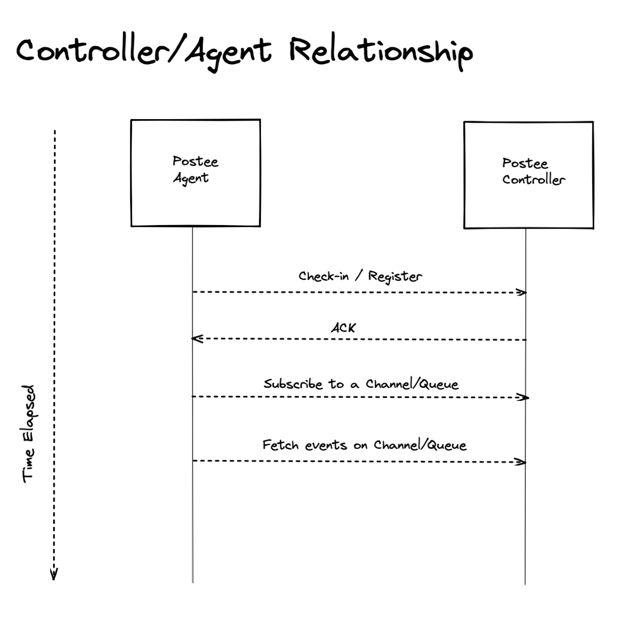
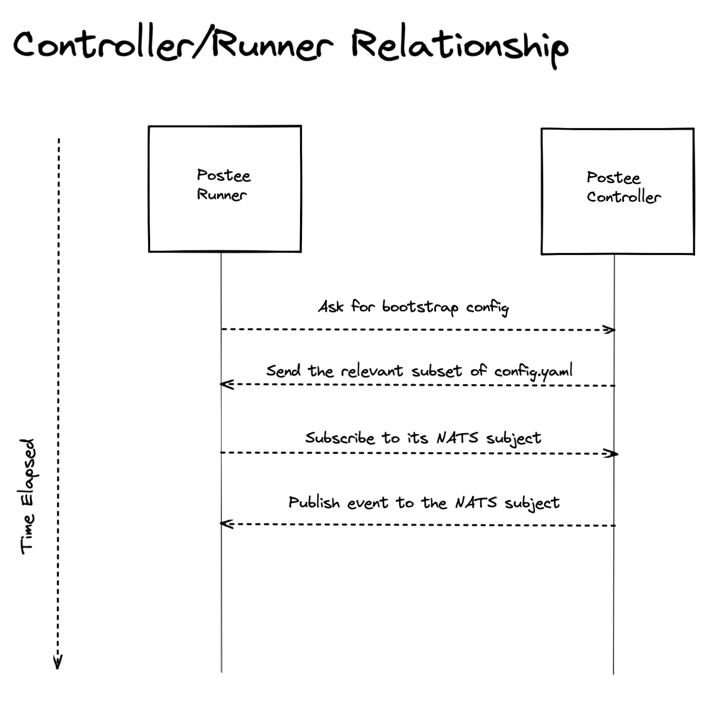
docs(cr): Update Controller/Runner scenarios.

diff --git a/docs/ARCH.md b/docs/ARCH.md
@@ -1,51 +1,124 @@
 # Postee Orchestration Model
 
-## Controller/Agent Architecture
+## Controller/Runner Architecture
 
-Postee can be configured as Controller/Agent where the two work together to enforce Actions on their workloads. The Model can be represented as follows:
+Postee can be configured as Controller/Runner where the two work together to enforce Actions on their workloads. The Model can be represented as follows:
 
 ![img_5.png](img_5.png)
 
-In the above diagram, the Postee Operator configures Postee Controller and the Postee Agents. Postee Controller/Agent model works for both On-Prem (Virtualized and non-Virtualized) and Kubernetes environments. The coloured boxes in the above diagram can be represented as follows:
+In the above diagram, the Postee Operator configures Postee Controller and the Postee Runners. Postee Controller/Runner model works for both On-Prem (Virtualized and non-Virtualized) and Kubernetes environments. The coloured boxes in the above diagram can be represented as follows:
 
 ![img_6.png](img_6.png)
 
-## Controller/Agent Relationship
+## Controller/Runner Relationship
 
-Postee Agents and their associated Postee Actions can be pre-defined in the Postee Configuration that is configured for each Postee Controller.
+Postee Runners and their associated Postee Actions can be pre-defined in the Postee Configuration that is configured for each Postee Controller.
 
-Postee Controllers are configured with each of the Postee Agents they are responsible for delegating the Postee Actions to. This configuration must be loaded by the Postee Operator.
+Postee Controllers are configured with each of the Postee Runners they are responsible for delegating the Postee Actions to. This configuration must be loaded by the Postee Operator.
 
-The exchange between the Postee Agent and Controller can be visualized as below:
+The exchange between the Postee Runner and Controller can be visualized as below:
+
 ![img_11.png](img_11.png)
 
-// TODO: Add an example config for Postee Controller that configures Postee Agents and the Postee Actions associated with them.
+### Config
+A sample Postee Controller/Runner model configuration could look as follows:
+
+Please note that a few items have been omitted from this configuration YAML example for brevity.
+
+```yaml
+ version: v1
+ type: controller
+ name: Postee-Controller-Runnner
+
+ # Routes are used to define how to handle an incoming message
+ routes:
+ - name: local-route
+   input: contains(input.image, "alpine:3.10")
+   outputs: [my-http-post-from-controller]
+   template: raw-json
+
+ - name: remote-route
+   input: contains(input.SigMetadata.ID, "TRC-2")
+   runs-on: "postee-runner-1"
+   serialize-outputs: true
+   outputs: [my-exec-from-runner, my-http-post-from-runner]
+   template: raw-json
+
+ - name: remote-route-2
+   input: contains(input.SigMetadata.ID, "TRC-3")
+   runs-on: "postee-runner-2"
+   serialize-outputs: true
+   outputs: [my-exec-from-runner]
+   template: raw-json
+
+ # Templates are used to format a message
+ templates:
+ - name: raw-json
+   rego-package: postee.rawmessage.json
+
+ # Outputs are target services that should consume the messages
+ outputs:
+ - name: my-http-post-from-controller
+   type: http
+   enable: true
+   url: "https://sample.url"
+   method: POST
+   body-content: |
+     This is an example of a inline body
+     Input Image: event.input.image
+     
+ - name: my-exec-from-runner
+   type: exec
+   enable: true
+   env: ["MY_ENV_VAR=foo_bar_baz", "MY_KEY=secret"]
+   exec-script: |
+     #!/bin/sh
+     echo $POSTEE_EVENT
+
+ - name: my-http-post-from-runner
+   type: http
+   enable: true
+   url: "https://sample.url"
+   method: POST
+   body-content: |
+     This is an another example of a inline body
+     Event ID: event.input.SigMetadata.ID
+
+```
+
+As seen above, each runner is distinctly identified by it's name. In this example we have two Postee Runners, "postee-runner-1" and "postee-runner-2". 
+
+In order for these runners to be configured, they need to be wired in with a directive of `runs-on`. This tells the controller that the route is meant to be executed by a remote runner, instead of the controller itself.
+
+When the directive of `runs-on` is not specified, Postee Controller behaves like a normal Postee and executes the Action by itself. This is useful when the running environment is not of interest and actions are ephemeral. We expect most of today's Postee Actions to follow such a pattern.
+
+In the case, when a `runs-on` directive is specified, the Controller delegates the actual run of the action to the associated Postee Runner. At the moment, each controller needs to be defined upfront within the configuration YAML and each has it's own distinct identity.
 
 
 ### Workflow
 
-In the following example, we will discuss the event flow between Producers, Postee Controller and Postee Agent.
+In the following example, we will discuss the event flow between Producers, Postee Controller and Postee Runner.
 
-![img_7.png](img_7.png)
+![img_12.png](img_12.png)
 
-In this scenario, the Postee Operator has configured Postee Controller to be responsible for 3 Postee Agents, each of which, is further responsible for executing certain Postee Actions.
+In this scenario, the Postee Operator has configured Postee Controller to be responsible for 2 Postee Runners, each of which, is further responsible for executing certain Postee Actions. In turn, the controller also has a self defined action that it will not delegate to any runner but execute itself (JIRA Action).
 
-Event Producers produce events that are sent to the Postee Controller. In the Postee Controller, they are re-routed to the Postee Agents that are responsible for handling them and executing necessary Postee Actions. 
+Event Producers produce events that are sent to the Postee Controller. In the Postee Controller, they are re-routed to the Postee Runners that are responsible for handling them and executing necessary Postee Actions. 
 
-Upon receiving the Postee Action, the Postee Agents take the Postee Actions that they have been configured for. 
+Upon receiving the Postee Action, the Postee Runners take the Postee Actions that they have been configured for. 
 
-Important distinction to note here is that the Event Producers don't have any knowledge about Postee Agents. They are only responsible for sending all their events upstream to the Postee Controller.
+Important distinction to note here is that the Event Producers don't have any knowledge about Postee Runners. They are only responsible for sending all their events upstream to the Postee Controller.
 
 
-### Postee Agents Environment
+### Postee Runners Environment
 
-#### Decoupled Agents
-In most cases for Postee Agents, the working environment is not of a concern as most of the Postee Actions they take are de-coupled from the environment they run in. 
+#### Decoupled Runners
+In most cases for Postee Runners, the working environment is not of a concern as most of the Postee Actions they take are de-coupled from the environment they run in. 
 
-For example, if Postee Agent is configured to run an HTTP action that sends a payload to an endpoint, it can be run from anywhere as long as there's a network path up to make a request.
+For example, if Postee Runner is configured to run an HTTP action that sends a payload to an endpoint, it can be run from anywhere as long as there's a network path up to make a request.
 
-#### Coupled Agents
-In certain cases, it may be required that the Postee Agent runs on the same host/node/environment that the Event was generated from. For example, if the Postee Agent is configured to run an Exec Postee Action, that removes vulnerable images as they are discovered. In this case it would only make sense to run the Postee Action in the same environment where the Event was produced (vulnerable image found).
+#### Coupled Runners
+In certain cases, it may be required that the Postee Runner runs on the same host/node/environment that the Event was generated from. For example, if the Postee Runner is configured to run an Exec Postee Action, that removes vulnerable images as they are discovered. In this case it would only make sense to run the Postee Action in the same environment where the Event was produced (vulnerable image found).
 
 
 ### Practical Scenario: Postee and Tracee
@@ -54,16 +127,26 @@ Tracee is an Open Source tool that can generate events for a service like Postee
 
 In the case of Tracee, events are produced on the host machine/node that Tracee runs on. Such a case can be visualized as follows:
 
-![img_8.png](img_8.png)
+![img_14.png](img_14.png)
 
 A malicious process running on the host causes Tracee to trigger its event detection and emit a finding event. This event is sent up to the Postee Controller that is configured to handle all events generated from Tracee(s). 
 
-This event that is sent up also includes additional metadata about the Postee Agent that is running alongside Tracee on the same node/host. This metadata is crucial for Postee Controller to identify which node/host the event has originated from in order to dispatch it with the specified Postee Action.
+This event that is sent up also includes additional metadata about the Postee Runner that is running alongside Tracee on the same node/host. This metadata is crucial for Postee Controller to identify which node/host the event has originated from in order to dispatch it with the specified Postee Action.
 
-Service Discovery between Postee Agent and Tracee on the same node/host is an area that needs to be fully fleshed out but in short, it can be achieved by either a ```ConfigMap``` if Kubernetes or just a regular Filesystem if otherwise.
+Service Discovery between Postee Runner and Tracee on the same node/host is an area that needs to be fully fleshed out but in short, it can be achieved by either a ```ConfigMap``` if Kubernetes or just a regular Filesystem if otherwise.
 
 A ladder diagram to explain the above sequence of events is as follows:
 ![img_9.png](img_9.png)
 
-### Pros/Cons of Controller/Agent approach
-![img_10.png](img_10.png)
+### An Alternative Approach
+The above approach require the Producers like Tracee to be able to convey information about the Postee Runner that's running alongside them. While this is doable for certain projects via ConfigMaps in K8s, or otherwise, there certainly can be scenarios where it is not an option. 
+
+In such cases an alternate approach to structure the above flow can be taken. This case can be visualized as follows:
+
+![img_13.png](img_13.png)
+
+As seen here, Producers like Tracee are not required to send any additional information to the Postee Runner. In this case Tracee treats Postee Runner as just a normal Postee instance (without the knowledge of it being a Runner).
+
+Postee Runner gets itself bootstrapped via the Postee Controller upon startup. The Controller pushes down any configuration options that maybe required for the Runner to work, as defined in the configuration yaml.
+
+Upon receiving this event from Tracee, the Postee Runner executes the Postee Action as it has already been configured to do so.
